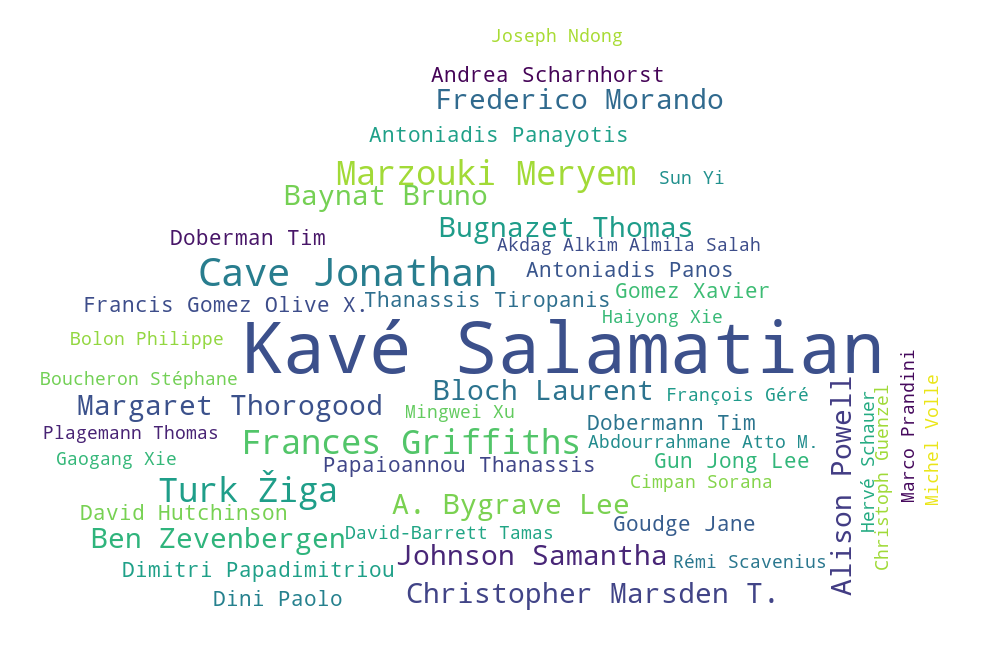
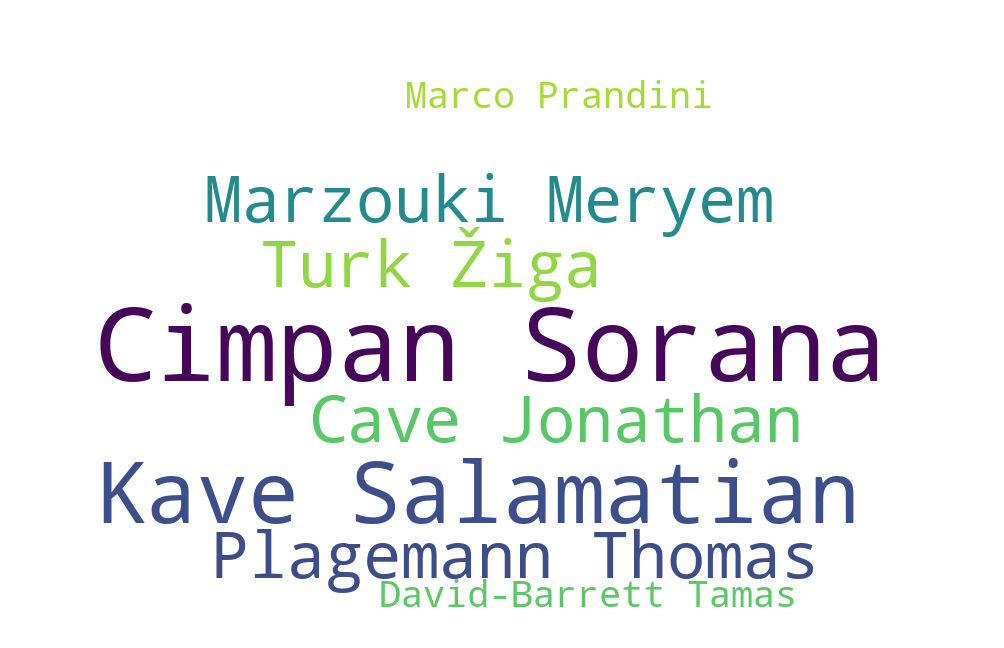
openCitation 1.0 - end of the first version of openCitation

Changed region(s): [[0.0309, 0.2469, 0.9572, 0.9568], [0.3705, 0.0926, 0.7102, 0.216], [0.494, 0.0309, 0.6175, 0.0617]]

diff --git a/scraperAPI/specific/openCitation/API/CitationAPI.py b/scraperAPI/specific/openCitation/API/CitationAPI.py
@@ -1,0 +1,50 @@
+# Importationd des fichiers de configuration
+import json
+import requests
+
+# Importation des différents modèles relatifs au projet
+from model.entities.Concept import Concept
+from model.entities.Author import Author
+from model.entities.Publication import Publication
+from model.relations.AuthorPublication import AuthorPublication
+from model.relations.AuthorPublicationConcept import AuthorPublicationConcept
+from model.relations.SourcePublication import SourcePublication
+from model.relations.SourceAuthor import SourceAuthor
+from model.relations.SourceConcept import SourceConcept
+
+class CitationAPI():
+    def __init__(self, API, dataBase, authorID, sourceID):
+
+        # Lien avec l'API 
+        self.API = API  
+
+        # Récupération des champs de recherche
+        self.dataBase = dataBase
+        self.authorID = authorID
+        self.sourceID = sourceID
+
+        # Application des différentes méthodes
+        self.defValidePublication()
+
+    def defValidePublication(self):
+        getPublications = self.dataBase.getFieldsWithId(self.authorID,"Publication",self.authorID,"*", quantity = "many")
+
+        for publication  in getPublications:
+            idPublication = publication[0]
+            idDoi = publication[1]
+            if idDoi not in ["","[]","{}","()","NULL","None"]:
+                unSourcePublication = SourcePublication(idPublication,self.sourceID,"","{}")
+                unSourcePublication.setDataBase(self.dataBase)
+                unSourcePublication.checkIfExistsOrInsert()
+
+                citation_count = self.getAPIResponse(idDoi, field = "citation-count")
+                reference_count = self.getAPIResponse(idDoi, field = "reference-count")
+
+                self.dataBase.updateOneField(id = idPublication, table = "Publication", field = "citation_count", value = citation_count[0]['count'])
+                self.dataBase.updateOneField(id = idPublication, table = "Publication", field = "reference_count", value = reference_count[0]['count'])
+
+
+    def getAPIResponse(self, doiId, field):
+        return json.loads(requests.get(self.API.getUrlAPI() + field + '/' + str(doiId) ).text)
+
+

diff --git a/scraperAPI/config/DB.py b/scraperAPI/config/DB.py
@@ -1,3 +1,4 @@
+from operator import ge
 import mysql.connector
 import configparser
 import inspect
@@ -171,12 +172,22 @@ class DB():
 
     # Permet de récupérer le/les résultats d'une requête simple entre deux tables
     def getFieldsWithId(self, id, table, searchField, getField, quantity):
-        self.cursor.execute('SELECT ' + getField + ' FROM ' + table + ' WHERE ' + searchField + ' = ' + str(id))
+        self.cursor.execute('SELECT ' + str(getField) + ' FROM ' + str(table) + ' WHERE ' + str(searchField) + ' = ' + str(id))
 
         if(quantity == "many"):
+            if(getField == "*"):
+                return [item for item in self.cursor.fetchall()]
             return [item[0] for item in self.cursor.fetchall()]
         
+        if(getField == "*"):
+            return self.cursor.fetchone()
         return self.cursor.fetchone()[0]
+
+
+    # Permet de modifier un champ en particulier
+    def updateOneField(self, id, table, field, value):
+        self.cursor.execute('UPDATE ' + str(table) + ' SET ' + str(field) + ' = ' + str(value) + ' WHERE id_' + str(table).lower() + ' = ' + str(id) + ' AND created_by = ' + str(self.id_connected_user))
+
 
     # Permet de set l'user globale de l'utilisateur connecté
     def setConnectedUserId(self, id_connected_user):

diff --git a/scraperAPI/specific/openAlex/API/AuthorAPI.py b/scraperAPI/specific/openAlex/API/AuthorAPI.py
@@ -14,14 +14,14 @@ from model.relations.SourceConcept import SourceConcept
 
 class AuthorAPI():
 
-    def __init__(self, intitial_research,initializedResearch, halAPI, dataBase, sourceID, filter_by):
+    def __init__(self, intitial_research,initializedResearch, API, dataBase, sourceID, filter_by):
         
         # Paramètre de recherche depuis notre solution
         self.initial_research = intitial_research
         self.intializedResearch = initializedResearch
 
-        # Lien avec l'API de HAL
-        self.halAPI = halAPI 
+        # Lien avec l'API
+        self.API = API 
         self.filter_by = filter_by
 
         self.globalResponseAuthor = self.getGlobalResponseAuthor()
@@ -165,7 +165,7 @@ class AuthorAPI():
 
     # Permet de récupérer l'ensemble des informations sur l'auteur en paramètre
     def getGlobalResponseAuthor(self):
-        return json.loads(requests.get(self.halAPI.getUrlAPI() + 'authors?filter=' + self.filter_by + '.search:' + self.intializedResearch).text)
+        return json.loads(requests.get(self.API.getUrlAPI() + 'authors?filter=' + self.filter_by + '.search:' + self.intializedResearch).text)
 
 
     # Permet de récupérer l'ensemble des IDS relatifs à notre paramètre

diff --git a/scraperAPI/specific/openCitation/openCitation.py b/scraperAPI/specific/openCitation/openCitation.py
@@ -1,0 +1,29 @@
+# Importation des classes pour la configuration globale au projet
+from config.DB import DB
+from config.ResearchInitializer import ResearchInitializer
+from config.ResearchSource import ResearchSource
+
+# Importation des configurations propre à l'API
+from specific.openCitation.config.openCitationAPI import openCitationAPI
+from specific.openCitation.API.CitationAPI import CitationAPI
+
+
+class openCitation():
+
+    def __init__(self,dataBase,research, id_connected_user):
+        self.dataBase = dataBase
+        self.research = research
+        self.id_connected_user = id_connected_user
+        self.API = openCitationAPI()
+        self.run()
+
+    def run(self):
+       
+        initialize = ResearchInitializer(self.research)
+        
+        ## Permet de récupérer les informations relative à la source (id_source)
+        sourceID = ResearchSource("OpenCitation", self.dataBase).getMySQLID()
+
+        ## Récupération des informations relative à l'API
+
+        CitationAPI(self.API, self.dataBase, self.id_connected_user, sourceID)

diff --git a/scraperAPI/specific/openAlex/API/PublicationAPI.py b/scraperAPI/specific/openAlex/API/PublicationAPI.py
@@ -15,9 +15,9 @@ from model.relations.SourceConcept import SourceConcept
 
 class PublicationAPI():
 
-    def __init__(self, idsAuthor, halAPI, dataBase, sourceID, authorID):
+    def __init__(self, idsAuthor, API, dataBase, sourceID, authorID):
         self.idsAuthor = idsAuthor
-        self.halAPI = halAPI
+        self.API = API
         self.dataBase = dataBase
         self.sourceID = sourceID
         self.authorID = authorID
@@ -32,7 +32,7 @@ class PublicationAPI():
 
             idAuthorMySQL = self.authorID
 
-            results = json.loads(requests.get(self.halAPI.getUrlAPI() + 'works?filter=authorships.author.id:A' + id).text)
+            results = json.loads(requests.get(self.API.getUrlAPI() + 'works?filter=authorships.author.id:A' + id).text)
             for publication in results['results']:
                 
                 publications.append(publication) 

diff --git a/scraperAPI/run.py b/scraperAPI/run.py
@@ -1,4 +1,5 @@
 from specific.openAlex.openAlex import openAlex
+from specific.openCitation.openCitation import openCitation
 
 from config.DB import DB
 
@@ -11,10 +12,16 @@ class Run():
     dataBase.setConnectedUserId(id_connected_user)    
     
     # Initialisation de la recherche, avant de faire le pont avec l'interface web
-    research = "Kavé SALAMATIAN"
+    research = "Sorana CIMPAN"
 
-    # Importation des données depuis OpenAlex et récupération de l'auteur importé
-    idAuthor = openAlex(dataBase,research, id_connected_user)
+    # Gestion du pont API openAlex
+    openAlex(dataBase,research, id_connected_user)
+
+    # Gestion du pont API openCitation
+    openCitation(dataBase,research, id_connected_user)
+
+
+
 
 
         

diff --git a/scraperAPI/specific/openCitation/config/openCitationAPI.py b/scraperAPI/specific/openCitation/config/openCitationAPI.py
@@ -1,0 +1,18 @@
+import configparser
+
+class openCitationAPI():
+    def __init__(self):
+        self.config = self.getConfig()
+        self.urlAPI = self.getUrlAPI()
+
+    def getConfig(self):
+        config = configparser.ConfigParser()
+        config.read('./config.ini')
+        return config
+
+    def getUrlAPI(self):
+        return self.config['OPENCITATION']['URL']
+
+    
+
+    

diff --git a/scraperAPI/specific/openAlex/openAlex.py b/scraperAPI/specific/openAlex/openAlex.py
@@ -3,7 +3,7 @@ from config.DB import DB
 from config.ResearchInitializer import ResearchInitializer
 from config.ResearchSource import ResearchSource
 
-# Importation des configurations propre à AlexAPI
+# Importation des configurations propre à l'API
 from specific.openAlex.config.AlexAPI import AlexAPI
 
 # # Importation des classes pour la gestion des sous-ensemble API

diff --git a/scraperAPI/model/entities/Publication.py b/scraperAPI/model/entities/Publication.py
@@ -11,6 +11,8 @@ class Publication():
         self.updated_date = updated_date
         self.created_date = created_date
         self.id_source = id_source
+        self.citation_count = 0
+        self.reference_count = 0
 
     # Permet d'ajouter l'objet database à l'objet publication
     def setDataBase(self, database):
